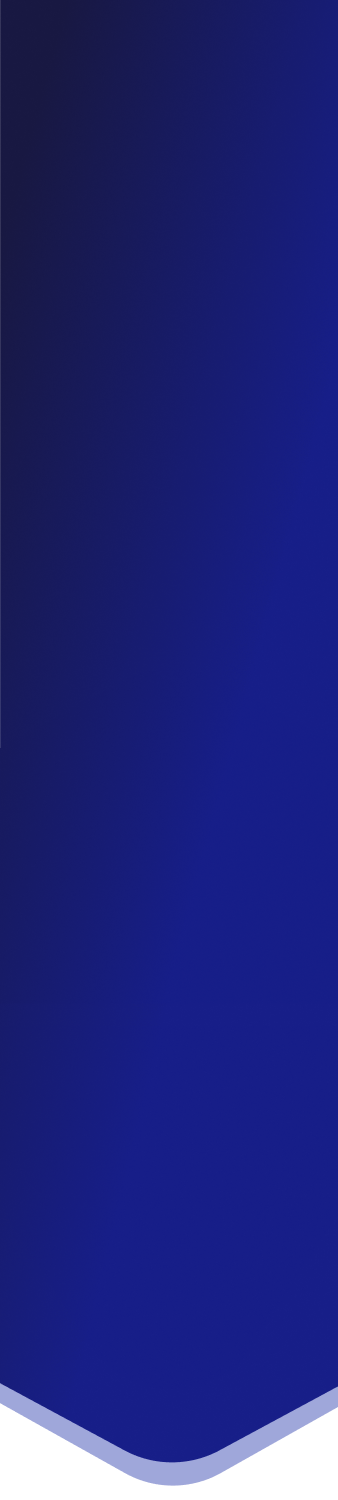
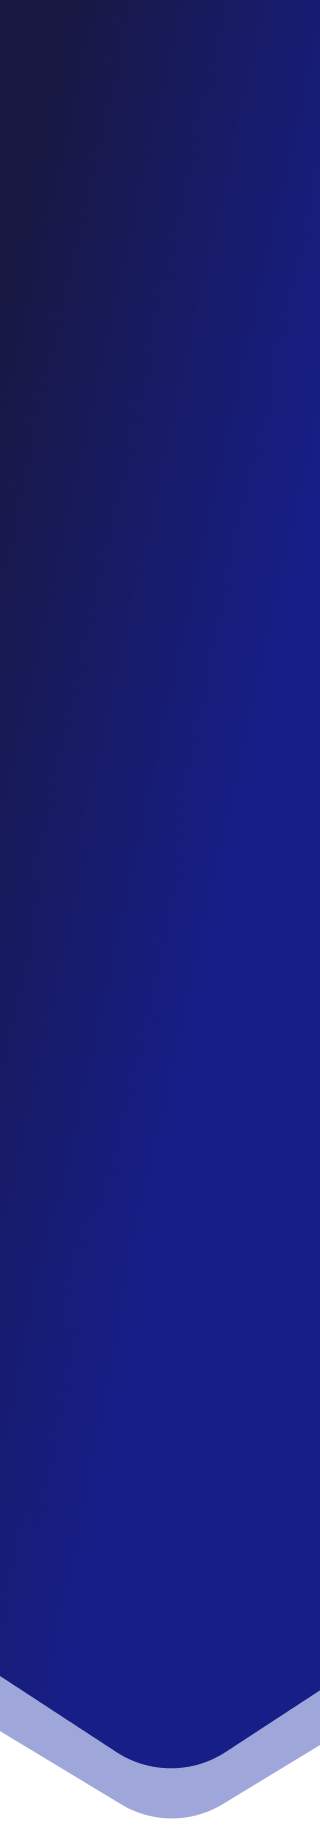
:lipstick: Feat: update form

Changed region(s): [[0.0, 0.8893, 1.0, 1.0]]

diff --git a/src/components/call-to-action/CallToAction.tsx b/src/components/call-to-action/CallToAction.tsx
@@ -48,7 +48,7 @@ const data = [
 
 export const CallToAction = () => {
   return (
-    <BaseLayout className="text-white text-center mt-4 relative overflow-hidden sm:text-start sm:mt-16 space-y-8 desktop:flex-row justify-between desktop:mt-20">
+    <BaseLayout className="text-white text-center mt-4 relative overflow-hidden sm:text-start sm:mt-16 space-y-8 desktop:flex-row justify-between desktop:mt-14">
       <div className="sm:w-[452px] space-y-5">
         <h2 className="text-3xl font-bold sm:text-4xl">Telelaudo</h2>
         <p className="">
@@ -91,10 +91,17 @@ export const CallToAction = () => {
         action=""
         className="w-full md:w-[550px] lg:w-[637px] desktop:w-[500px] bg-[#3551FF] rounded-3xl bg-opacity-50 m-auto desktop:m-0 p-4 text-start sm:p-8"
       >
-        <Input type="text" title="Nome Completo" className="text-black" />
+        <div className="flex flex-col gap-0 sm:flex-row sm:gap-4">
+          <Input type="text" title="Nome Completo" className="text-black" />
+          <Input type="text" title="CPF" className="text-black" />
+        </div>
+        <div className="flex flex-col gap-0 sm:flex-row sm:gap-4">
+          <Input type="text" title="RG" className="text-black" />
+          <Input type="text" title="Telefone" className="text-black" />
+        </div>
+        <Input type="text" title="Data de nascimento" className="text-black" />
         <Input type="text" title="Email" className="text-black" />
-        <Input type="text" title="Telefone" className="text-black" />
-        <Input type="text" title="Emails" className="text-black" />
+        <Input type="text" title="Endereço" className="text-black" />
         <button className="w-full bg-[#0054FF] rounded-lg flex justify-center items-center h-[40px] sm:h-[50px] mt-4">
           Enviar
         </button>

diff --git a/src/components/responsiveness/Responsiveness.tsx b/src/components/responsiveness/Responsiveness.tsx
@@ -7,19 +7,19 @@ export const Responsiveness = () => {
     <div className="w-full m-auto">
       {/* Mobile */}
       <img
-        className="w-full absolute -z-50 sm:hidden  min-h-[1600px] min-[380px]:max-h-[1500px] "
+        className="w-full absolute -z-50 sm:hidden  min-h-[1600px] min-[327px]:max-h-[1850px] min-[375px]:max-h-[1950px] min-[380px]:max-h-[1900px] "
         src="/bg/bgMobile.png"
         alt="bgMobile"
       />
       {/* Tablet */}
       <img
-        className="w-full absolute -z-50 hidden md:block lg:hidden min-[800px]:-top-16"
+        className="w-full absolute -z-50 hidden md:block lg:hidden min-[800px]:-top-16 md:max-h-[1550px]"
         src="/bg/bgTablet.png"
         alt="bgMobile"
       />
       {/* Laptop */}
       <img
-        className="w-full absolute -z-50 hidden lg:block desktop:hidden"
+        className="w-full absolute -z-50 hidden lg:block desktop:hidden min-h-[1500px]"
         src="/bg/bgLaptop.png"
         alt="bgMobile"
       />
